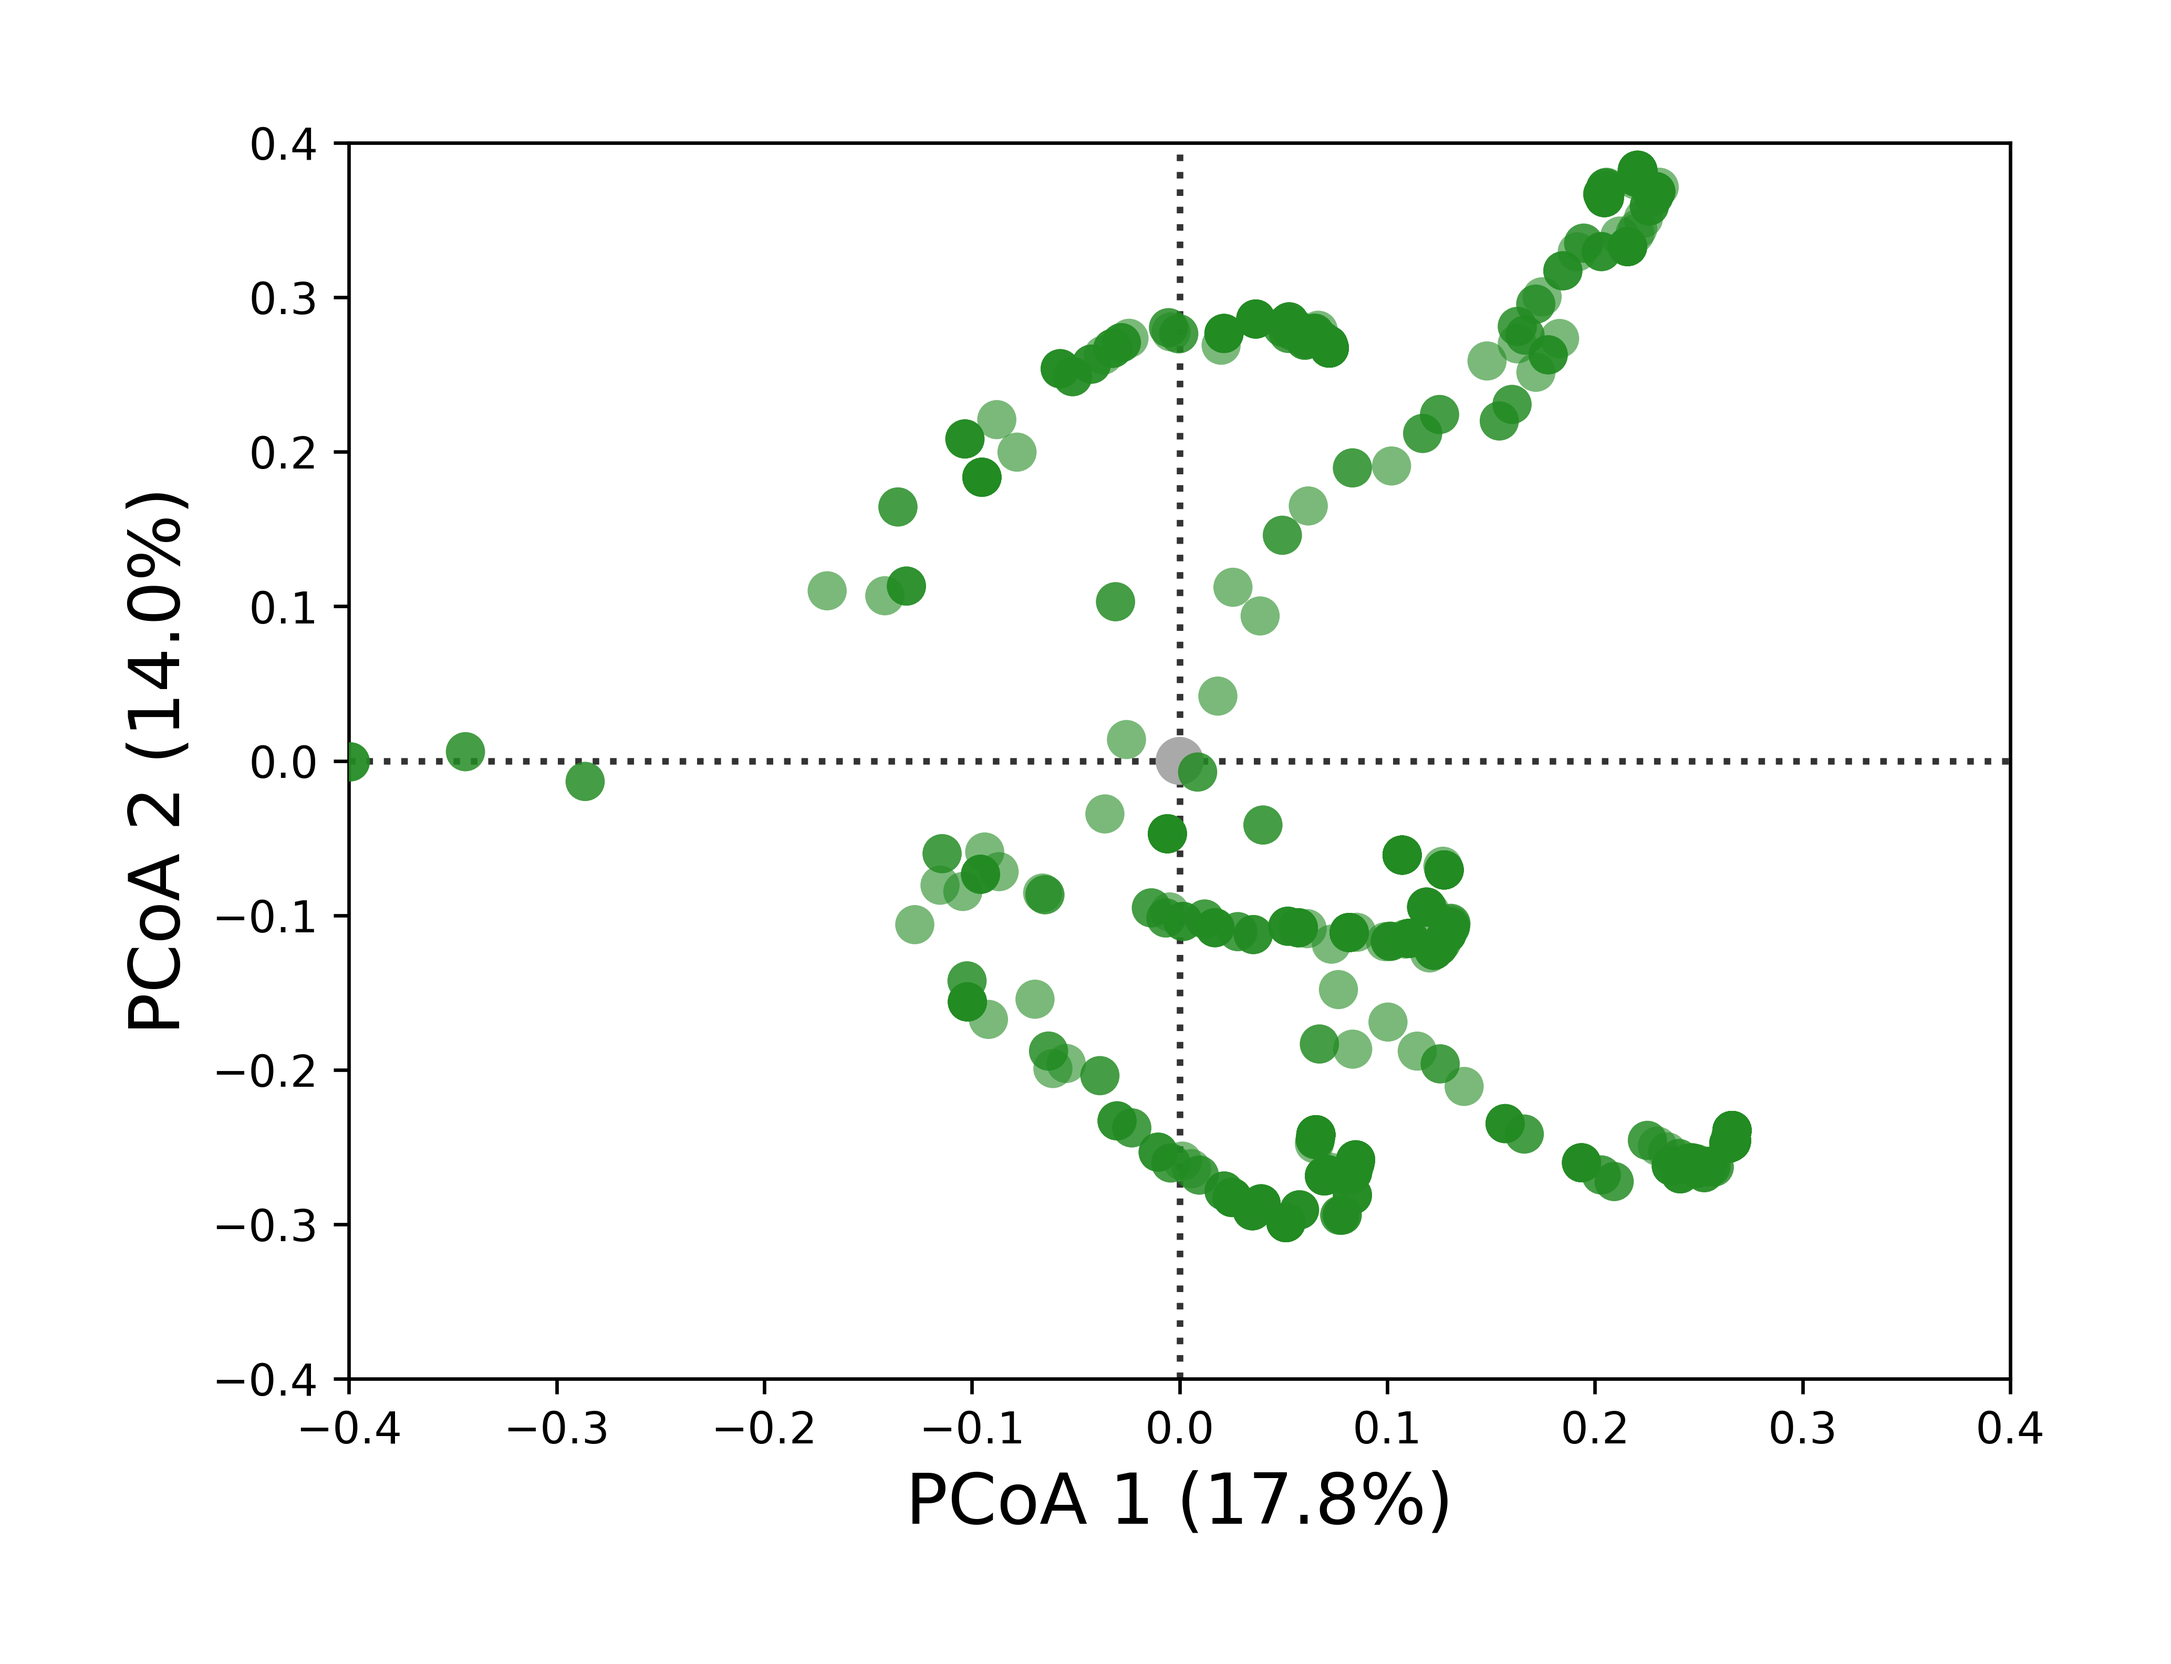
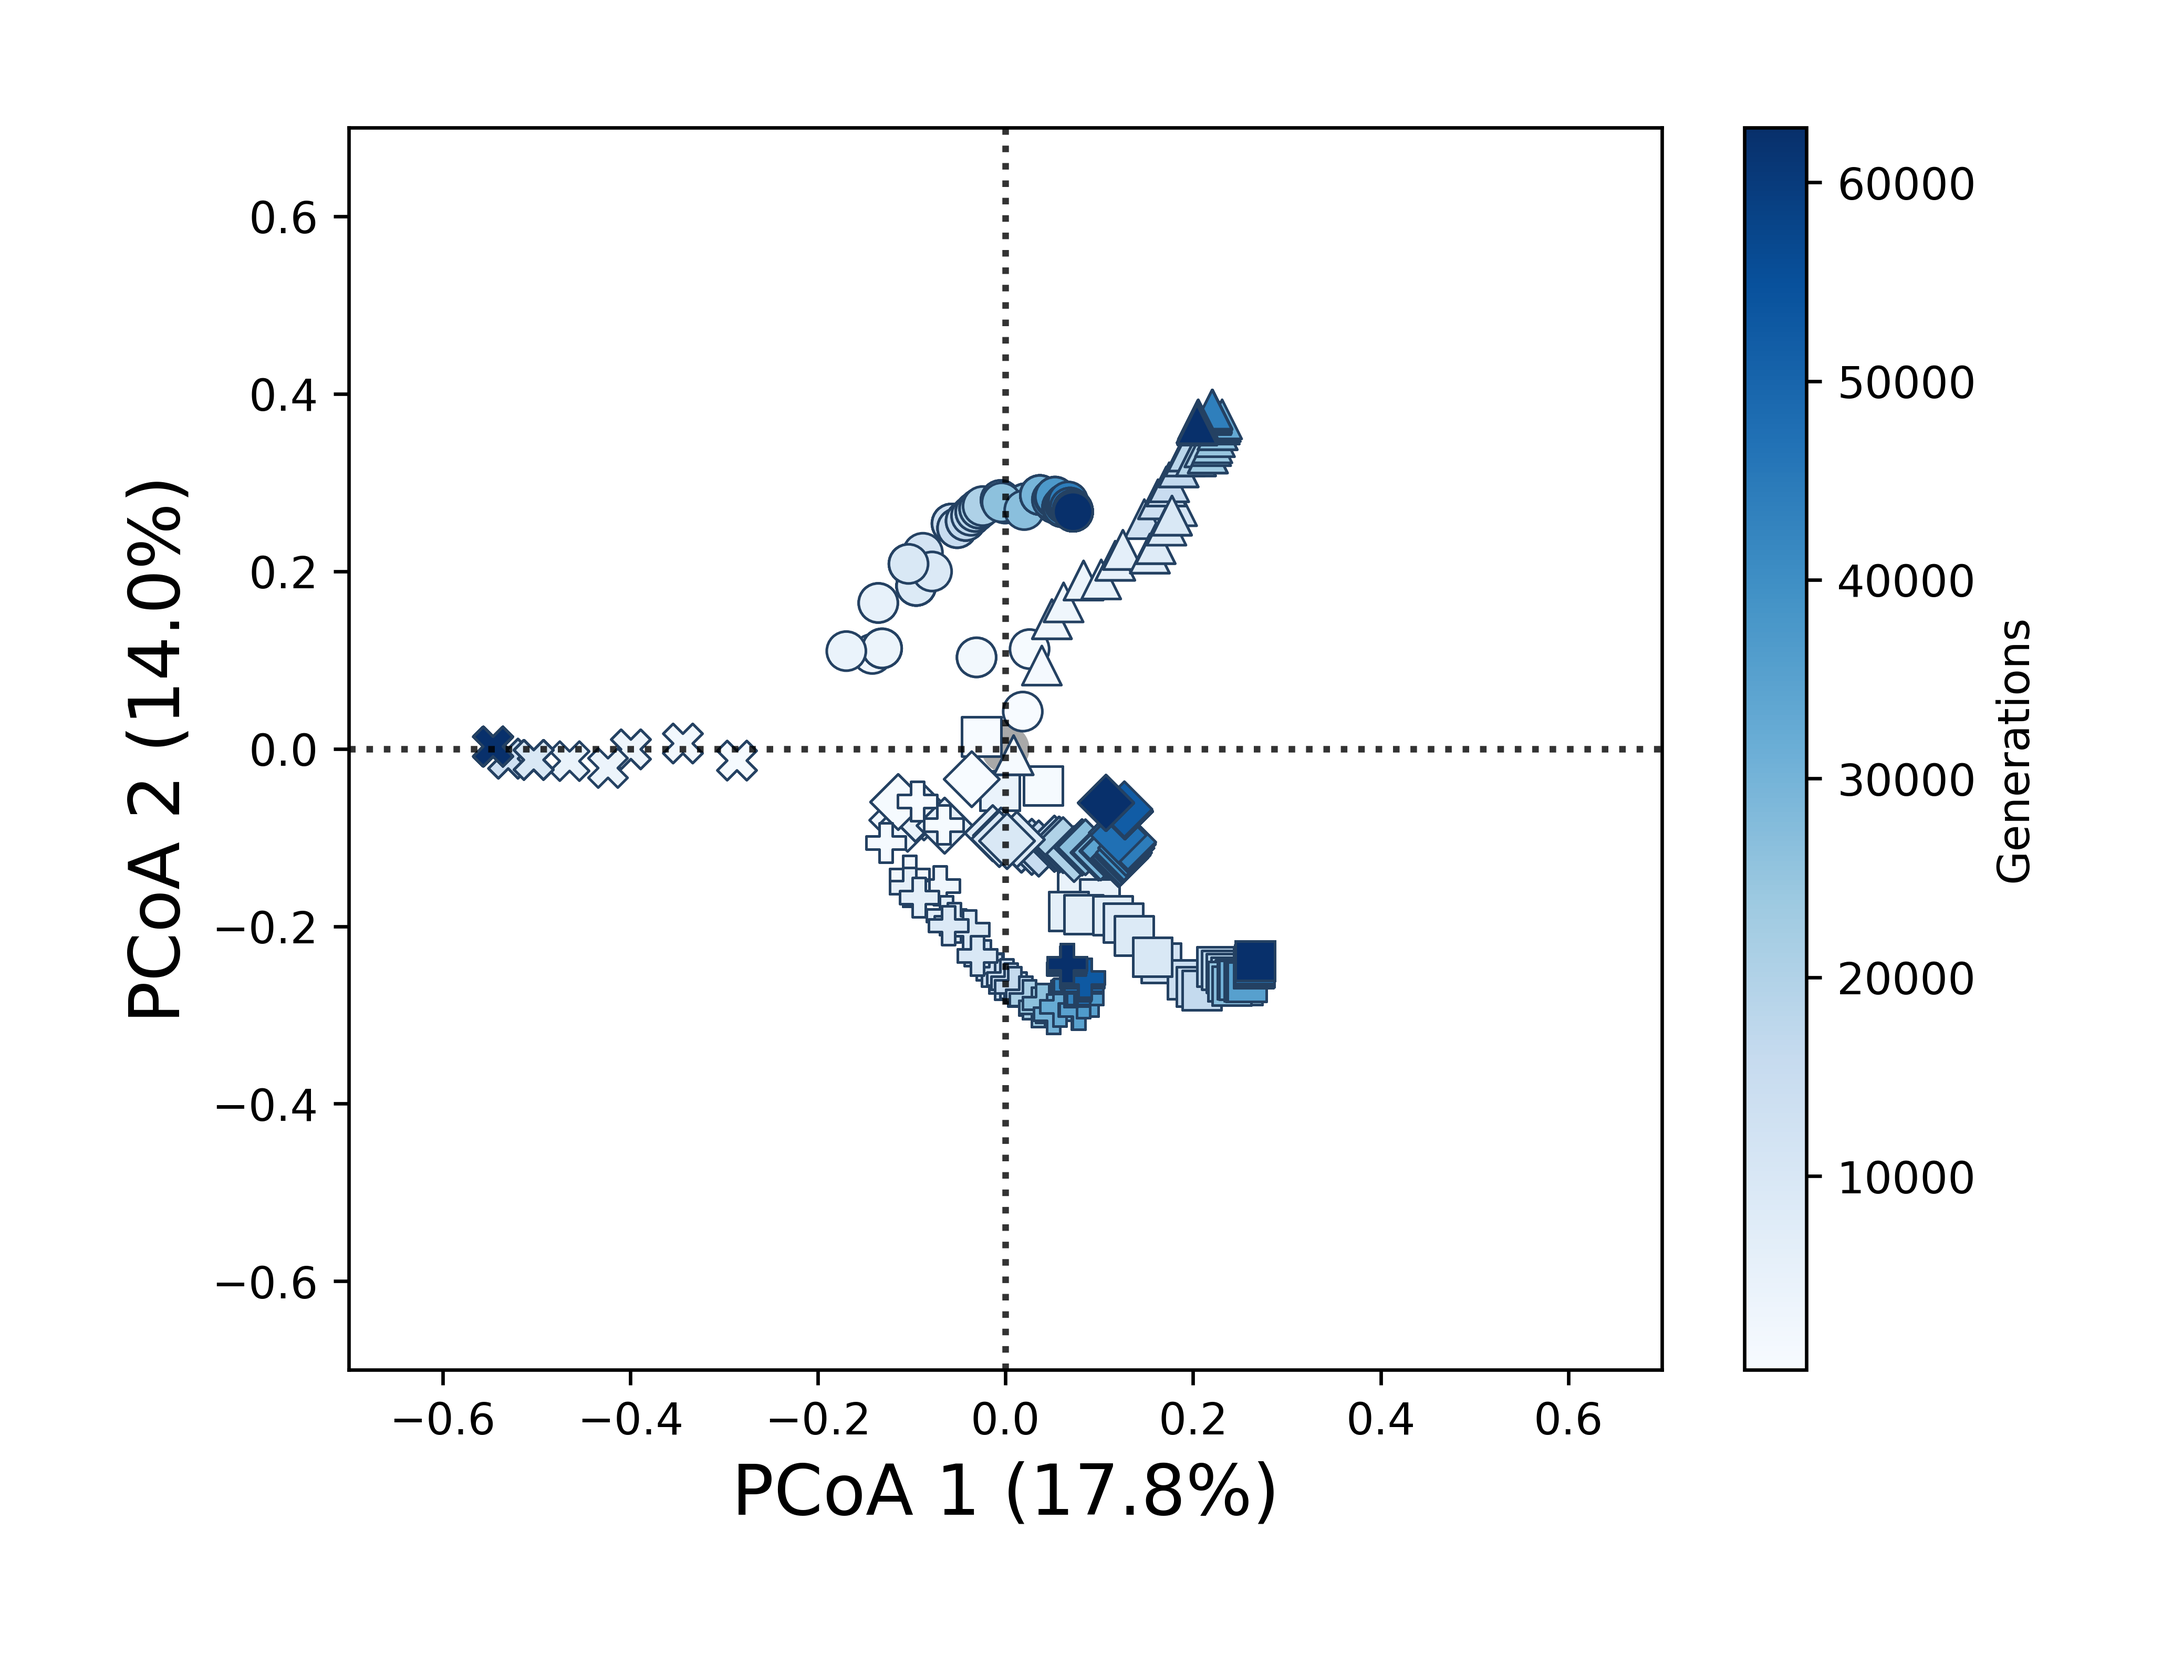
fixed pcoa fig

diff --git a/Python/run_analysis.py b/Python/run_analysis.py
@@ -4,10 +4,41 @@ import pandas as pd
 import parevol_tools as pt
 import matplotlib.pyplot as plt
 from matplotlib import cm
+import matplotlib.colors as clr
 
 
 test_array = np.array([[1, 2], [3, 4], [3, 0]])
 
+
+def cmap_map(function, cmap):
+    """ Applies function (which should operate on vectors of shape 3: [r, g, b]), on colormap cmap.
+    This routine will break any discontinuous points in a colormap.
+    """
+    cdict = cmap._segmentdata
+    step_dict = {}
+    # Firt get the list of points where the segments start or end
+    for key in ('red', 'green', 'blue'):
+        step_dict[key] = list(map(lambda x: x[0], cdict[key]))
+    step_list = sum(step_dict.values(), [])
+    step_list = np.array(list(set(step_list)))
+    # Then compute the LUT, and apply the function to the LUT
+    reduced_cmap = lambda step : np.array(cmap(step)[0:3])
+    old_LUT = np.array(list(map(reduced_cmap, step_list)))
+    new_LUT = np.array(list(map(function, old_LUT)))
+    # Now try to make a minimal segment definition of the new LUT
+    cdict = {}
+    for i, key in enumerate(['red','green','blue']):
+        this_cdict = {}
+        for j, step in enumerate(step_list):
+            if step in step_dict[key]:
+                this_cdict[step] = new_LUT[j, i]
+            elif new_LUT[j,i] != old_LUT[j, i]:
+                this_cdict[step] = new_LUT[j, i]
+        colorvector = list(map(lambda x: x + (x[1], ), this_cdict.items()))
+        colorvector.sort()
+        cdict[key] = colorvector
+
+    return clr.LinearSegmentedColormap('colormap',cdict,1024)
 
 def plot_pcoa(dataset):
     if dataset == 'tenaillon':
@@ -42,27 +73,31 @@ def plot_pcoa(dataset):
         X = np.sqrt(pt.get_scipy_bray_curtis(df.as_matrix()))
         #X = pt.get_scipy_bray_curtis(df.as_matrix())
         X_cmds = pt.cmdscale(X)
-        df_cmds = pd.DataFrame(data=X_cmds, index=df.index, columns=df.columns)
+        df_cmds = pd.DataFrame(data=X_cmds[0], index=df.index)
         #pt.plot_eigenvalues(X_cmds[1], file_name = 'pcoa_good_eigen')
         percent_explained = X_cmds[1] / sum(X_cmds[1])
         times = sorted(list(set([int(x.split('_')[1]) for x in df.index.values])))
-        colors = np.linspace(0,2,len(times))
+        colors = np.linspace(min(times),max(times),len(times))
         color_dict = dict(zip(times, colors))
-        for pop in pt.complete_nonmutator_lines():
-            print(pop)
-            pop_df_cmds = df_cmds[df_cmds.index.str.contains(pop)]
-
-
-        # cs = plt.scatter(x,y,c=B,cmap=cm.Blues,vmin=0.,vmax=2.)
 
         fig = plt.figure()
         plt.axhline(y=0, color='k', linestyle=':', alpha = 0.8, zorder=1)
         plt.axvline(x=0, color='k', linestyle=':', alpha = 0.8, zorder=2)
-        plt.scatter(0, 0, marker = "o", edgecolors='none', c = 'darkgray', s = 120, zorder=3)
-        plt.scatter(X_cmds[0][:,0], X_cmds[0][:,1], marker = "o", edgecolors='none', c = 'forestgreen', alpha = 0.6, s = 80, zorder=4)
-
-        plt.xlim([-0.4,0.4])
-        plt.ylim([-0.4,0.4])
+        plt.scatter(0, 0, marker = "o", edgecolors='none', c = 'darkgray', s = 120, zorder=1)
+        for pop in pt.complete_nonmutator_lines():
+            pop_df_cmds = df_cmds[df_cmds.index.str.contains(pop)]
+            c_list = [ color_dict[int(x.split('_')[1])] for x in pop_df_cmds.index.values]
+            if  pt.nonmutator_shapes()[pop] == 'p2':
+                size == 50
+            else:
+                size = 80
+            plt.scatter(pop_df_cmds.as_matrix()[:,0], pop_df_cmds.as_matrix()[:,1], \
+            c=c_list, cmap = cm.Blues, vmin=min(times), vmax=max(times), \
+            marker = pt.nonmutator_shapes()[pop], s = size, edgecolors='#244162', linewidth = 0.6)#, edgecolors='none')
+        c = plt.colorbar()
+        c.set_label("Generations")
+        plt.xlim([-0.7,0.7])
+        plt.ylim([-0.7,0.7])
         plt.xlabel('PCoA 1 (' + str(round(percent_explained[0],3)*100) + '%)' , fontsize = 16)
         plt.ylabel('PCoA 2 (' + str(round(percent_explained[1],3)*100) + '%)' , fontsize = 16)
         fig.tight_layout()

diff --git a/Python/parevol_tools.py b/Python/parevol_tools.py
@@ -34,6 +34,9 @@ def get_scipy_bray_curtis(array):
 def complete_nonmutator_lines():
     return ['m5','m6','p1','p2','p4','p5']
 
+def nonmutator_shapes():
+    return {'m5': 'o','m6':'s','p1':'^','p2':'D','p4':'P','p5':'X'}
+
 
 def complete_mutator_lines():
     return ['m1','m4','p3']
